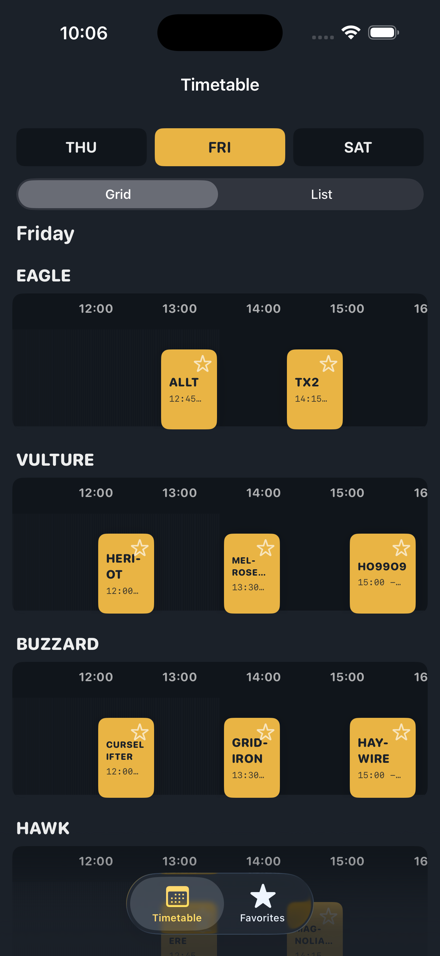
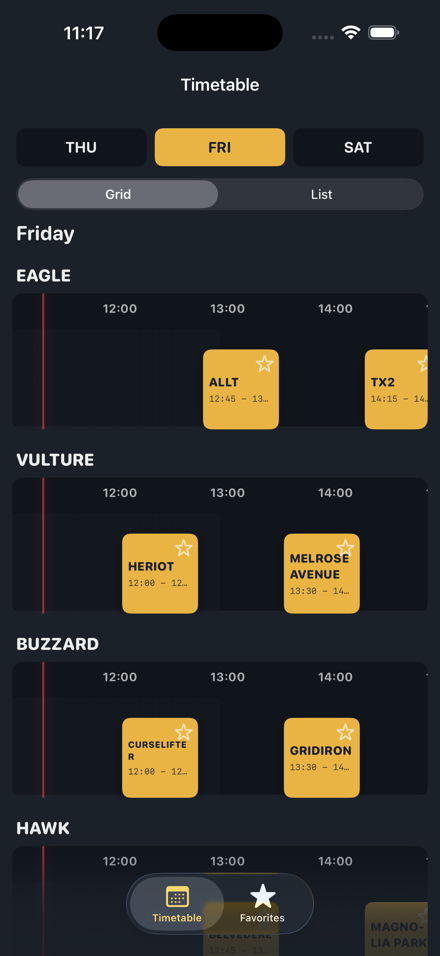
Widen grid band markers and refresh README screenshots.
Increase slot width and minimum block size so performance times are readable, and recapture grid, list, and favorites simulator shots.

diff --git a/JeraOnAir/JeraOnAir/Views/TimetableDayView.swift b/JeraOnAir/JeraOnAir/Views/TimetableDayView.swift
@@ -155,9 +155,9 @@ struct TimetableDayView: View {
                     .minimumScaleFactor(0.8)
                     .foregroundStyle(JeraTheme.bodyColor1.opacity(0.85))
             }
-            .padding(.horizontal, 8)
+            .padding(.horizontal, 6)
             .padding(.vertical, 8)
-            .frame(width: max(width - 4, 56), alignment: .leading)
+            .frame(width: max(width, 76), alignment: .leading)
             .frame(maxHeight: JeraTheme.stageHeight * 0.8)
             .background(JeraTheme.accentGold)
             .clipShape(RoundedRectangle(cornerRadius: 8, style: .continuous))

diff --git a/JeraOnAir/JeraOnAir/Theme/JeraTheme.swift b/JeraOnAir/JeraOnAir/Theme/JeraTheme.swift
@@ -11,6 +11,6 @@ enum JeraTheme {
 
     static let stageHeight: CGFloat = 100
     static let timeHeaderHeight: CGFloat = 36
-    static let slotWidth: CGFloat = 7
+    static let slotWidth: CGFloat = 9
     static let cornerRadius: CGFloat = 10
 }